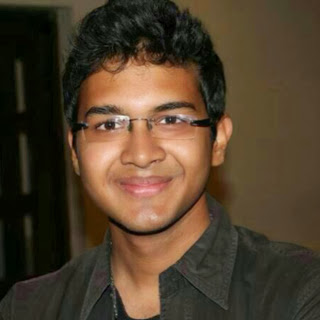
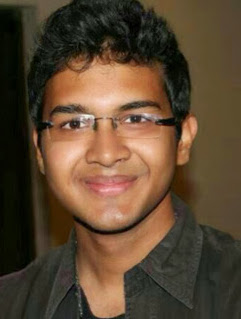
Added lab alumni to people page

diff --git a/style.scss b/style.scss
@@ -443,16 +443,16 @@ th, td {
   color: #fff;
   line-height: 1.4;
 
-  background-color: #6c7ae0;
+  background-color: #d00000;
 }
 
 .table100.ver1 td {
-  font-family: Lato-Regular;  color: #808080;
+  font-family: Lato-Regular;  color: #000000;
   line-height: 1.4;
 }
 
 .table100.ver1 .table100-body tr:nth-child(even) {
-  background-color: #f8f6ff;
+  background-color: #f5f1e7;
 }
 
 /*---------------------------------------------*/

diff --git a/people.md b/people.md
@@ -5,18 +5,40 @@ title: Schnable Lab Members
 googlefonts: ["Monoton", "Lobster"]
 ---
 
-| | Name | Title|
-|-------------------------|---------------------------------|----------------------------------|
-|![James Schnable](/images/People_Images/jamesschnable.jpg){:height="150" align="middle"}|James Schnable|Assistant Professor|
-|![Guangchao Sun](/images/People_Images/Guangchao.JPG){:height="150" align="middle"}|Guangchao Sun|Postdoctoral Scholar|
-|![Zhikai Liang](/images/People_Images/Zhikai_Liang_small.jpg){:height="150"}|Zhikai Liang|PhD Student|
-|![Daniel Carvalho](/images/People_Images/Daniel_Carvalho.jpg){:height="150"}|Daniel Carvalho|PhD Student|
-|![Chenyong Miao](/images/People_Images/Miao_Small.jpg){:height="150"}|Chenyong Miao|PhD Student|
-|![Preston Hurst](/images/People_Images/Preston.jpg){:height="150"}|Preston Hurst|MS Student|
-|![Xiuru Dai](/images/People_Images/Xiuru_small.jpg){:height="150"}|Xiuru Dai|Visiting PhD Student|
-|![Nate Korth](/images/People_Images/Nate_small.jpg){:height="150"}|Nate Korth|co-mentored PhD Student|
-|![Connor Pedersen](/images/People_Images/Connor.JPG){:height="150"}|Connor Pederson|Research Assistant|
-|![Thomas Hoban](/images/People_Images/thoban.jpg){:height="150"}|Thomas Hoban|Bachelors Student|
-||Alexandra Bradley|Bachelors Student|
-||Alejandro Pages| UCARE Bachelor's Student|
+| | **Name** | **Title**| **CV** |
+|![James Schnable](/images/People_Images/jamesschnable.jpg){:width="120" align="middle"}|James Schnable|Assistant Professor||
+|![Guangchao Sun](/images/People_Images/Guangchao.JPG){:width="120" align="middle"}|Guangchao Sun|Postdoctoral Scholar||
+|![Zhikai Liang](/images/People_Images/Zhikai_Liang_small.jpg){:width="120"}|Zhikai Liang|PhD Student||
+|![Daniel Carvalho](/images/People_Images/Daniel_Carvalho.jpg){:width="120"}|Daniel Carvalho|PhD Student||
+|![Chenyong Miao](/images/People_Images/Miao_Small.jpg){:width="120"}|Chenyong Miao|PhD Student||
+|![Preston Hurst](/images/People_Images/Preston.jpg){:width="120"}|Preston Hurst|MS Student||
+|![Xiuru Dai](/images/People_Images/Xiuru_small.jpg){:width="120"}|Xiuru Dai|Visiting PhD Student||
+|![Nate Korth](/images/People_Images/Nate_small.jpg){:width="120"}|Nate Korth|co-mentored PhD Student||
+|![Connor Pedersen](/images/People_Images/Connor.JPG){:width="120"}|Connor Pederson|Research Assistant||
+|![Thomas Hoban](/images/People_Images/thoban.jpg){:width="120"}|Thomas Hoban|Bachelors Student|
+||Alex Enersen|Bachelors Student||
+||Alexandra Bradley|Bachelors Student||
+||Alejandro Pages| UCARE Bachelors Student||
 {:.table100.ver1}
+
+**Lab Alumni**
+
+| | **Name** | **Title**| **Tenure** |
+|![Yang Zhang](/images/People_Images/yzhang_small.jpg){:width="120" align="middle"}|Yang Zhang|Postdoctoral Scholar|2014-2017|
+|![Jinliang Yang](/images/People_Images/jinliang.JPG){:width="120"}|Jinliang Yang|Postdoctoral Scholar|2016-2017|
+|![Sunil Kumar](/images/People_Images/Sunil.jpg){:width="120"}|Sunil Kumar|Postdoctoral Scholar|2017-2018|
+|![Lang Yang](/images/People_Images/Lang_Small.jpg){:width="120"}|Lang Yang|Visiting Scholar|2016-2017|
+|![Xianjun Lai](/images/People_Images/xlai.jpg){:width="120"}|Xianjun Lai|CSC PhD Student|2015-2017|
+|![Bhushit Agarwal](/images/People_Images/Bhushit.jpg){:width="120"}|Bhushit Agarwal|Comp. Sci. MS Student _(co-advised)_|2015-2016|
+|![Srinidhi Bashyam](/images/People_Images/Srinidhi.jpg){:width="120"}|Srinidhi Bashyam|Comp. Sci. MS Student _(co-advised)_|2015-2016|
+|![Sarah Johnson](/images/People_Images/Sarah.jpg){:width="120"}|Sarah Johnson|Complex Biosystems PhD Rotation|Spring 2017|
+|![Lei Tian](/images/People_Images/Lei_Tian_Small.JPG){:width="120" align="middle"}|Lei Tian|Visiting PhD Student|Summer 2014|
+|![Daniel Ngu](/images/People_Images/Danielngu_small.jpg){:width="120"}|Daniel Ngu|Bachelors Student|2014-2017|
+|![Logan Olson](/images/People_Images/logan.JPG){:width="120"}|Logan Olson|Bachelors Student|2016-2017|
+|![Xiaoyang (Chloe) Ye](/images/People_Images/Chloe.jpg){:width="120"}|Xiaoyang (Chloe) Ye|Bachelors Student|2016-2017|
+|![Holly Podliska](/images/People_Images/Holly.jpg){:width="120"}|Holly Podliska|UCARE Bachelors Student|2016-2017|
+|![Kyle Johnson](/images/People_Images/Johnson_small.JPG){:width="120"}|Kyle Johnson|REU Student|Summer 2016|
+|![Taylor Horn](/images/People_Images/Horn_small.JPG){:width="120"}|Taylor Horn|REU Student|Summer 2016|
+|![Nicole Hollander](/images/People_Images/NicoleH.jpg){:width="120"}|Nicole Hollander|YNS High School Intern|Summer 2017|
+{:.table100.ver1}
+
